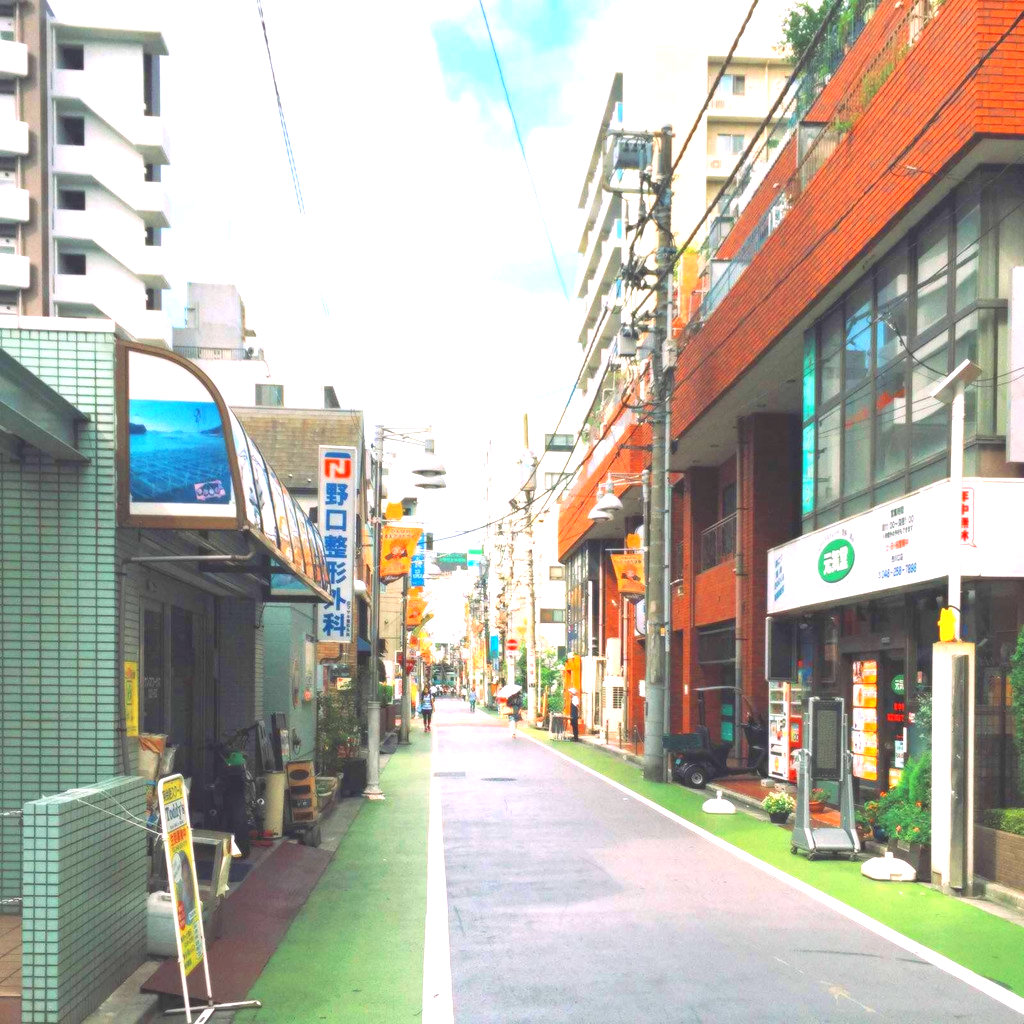
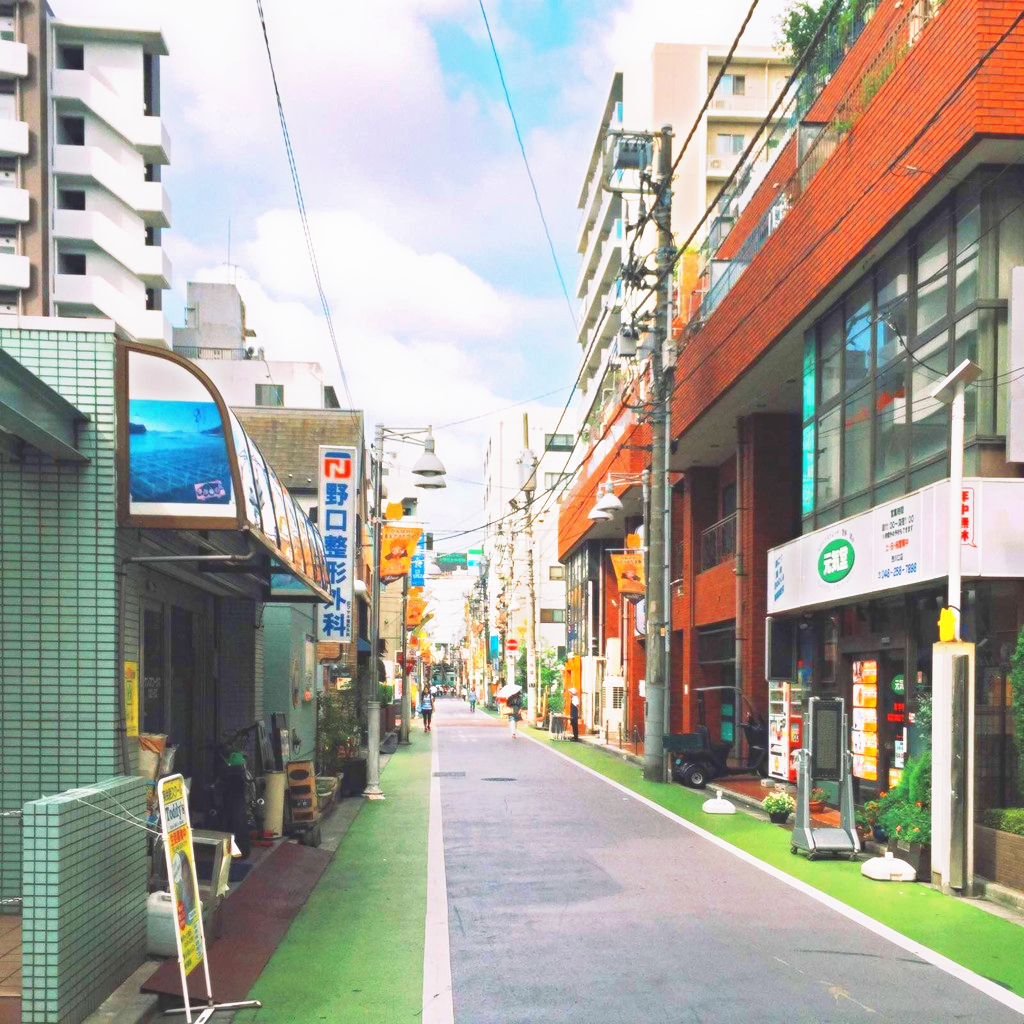
Update

diff --git a/styletransfer/animation/animation.py b/styletransfer/animation/animation.py
@@ -26,21 +26,17 @@ def saturation(image, value):
         image = L + (image - L) * (1 + alpha)
     return image*255
 
+def contrast(image,value):
+    image = image / 255
+    mean = np.mean(image)
+    # mean = np.mean(image,axis=2).reshape([*image.shape[:-1],1])
+    image = ((image - mean) * (1 + value) + mean)*255
+    image = np.clip(image,0,255)
+    return image.astype(np.uint8)
+
 def zmMinFilterGray(src, r=7):
     '''''最小值滤波，r是滤波器半径'''
     return cv2.erode(src,np.ones((2*r-1,2*r-1)))
-# =============================================================================
-#     if r <= 0:
-#         return src
-#     h, w = src.shape[:2]
-#     I = src
-#     res = np.minimum(I  , I[[0]+range(h-1)  , :])
-#     res = np.minimum(res, I[range(1,h)+[h-1], :])
-#     I = res
-#     res = np.minimum(I  , I[:, [0]+range(w-1)])
-#     res = np.minimum(res, I[:, range(1,w)+[w-1]])
-# =============================================================================
- #   return zmMinFilterGray(res, r-1)
 
 def guidedfilter(I, p, r, eps):
     '''''引导滤波，直接参考网上的matlab代码'''
@@ -73,19 +69,41 @@ def tonemapping(image,value):
     img_out = img_out * (1-mask_2) + mask_2
     return (img_out*255).astype(np.uint8)
 
-def color_matching(img):
+def color_matching(img,dark):
+    dark = dark / 255
     img = img.copy()
     img = saturation(img,.5)
-    img = tonemapping(img,.5)
+    img = contrast(img,.5) * dark.reshape((*dark.shape,1)) + (1 - dark.reshape((*dark.shape,1))) * img
+    ligten = img * dark.reshape((*dark.shape,1))
+    cv2.imwrite('lighten_area.png',ligten)
+    img = tonemapping(img,.5) * (1 - dark.reshape((*dark.shape,1))) + dark.reshape((*dark.shape,1)) * img
     return img
-    
+
+def clean_noise(img,threshold=32):
+    contours,_ = cv2.findContours(img, cv2.RETR_TREE, cv2.CHAIN_APPROX_SIMPLE)
+    n = len(contours)  # 轮廓的个数
+    cv_contours = []
+    for contour in contours:
+        area = cv2.contourArea(contour)
+        if area >= threshold:
+            cv_contours.append(contour)
+    cv2.fillPoly(img, cv_contours, (255, 255, 255))
+    return img
 
 def animation(image):
     dark_channel = zmMinFilterGray(np.min(image,2),7)
     cv2.imwrite('dark_channel.png', dark_channel)
+    dark_blur = cv2.blur(dark_channel,(15,15))
+    dark_blur = cv2.bilateralFilter(dark_blur,0,100,15)
+    cv2.imwrite('dark_blur.png', dark_blur)
+    # _,dark_mask = cv2.threshold(dark_channel,64,255,cv2.THRESH_BINARY)
+    # dark_mask = cv2.GaussianBlur(dark_mask,(15,15),10)
+    # dark_mask = clean_noise(dark_mask,128)
+    # dark_mask = cv2.GaussianBlur(dark_mask,(15,15),10)
+    # cv2.imwrite('dark_mask.png', dark_mask)
     color = image.copy()
     image = cv2.cvtColor(image,cv2.COLOR_BGR2GRAY)
-    tone = color_matching(color)
+    tone = color_matching(color,dark_blur)
     kernel = np.array([[1,0],
                         [0,-1]])
     threshold = 230
@@ -96,7 +114,7 @@ def animation(image):
     # res[np.where(res<=threshold)] = 0
     res[np.where(res>threshold)] = 255
     ret, binary = cv2.threshold(res,240,255,cv2.THRESH_BINARY)
-    _, contours,_ = cv2.findContours(binary, cv2.RETR_TREE, cv2.CHAIN_APPROX_SIMPLE)
+    contours,_ = cv2.findContours(binary, cv2.RETR_TREE, cv2.CHAIN_APPROX_SIMPLE)
     n = len(contours)  # 轮廓的个数
     cv_contours = []
     for contour in contours:
